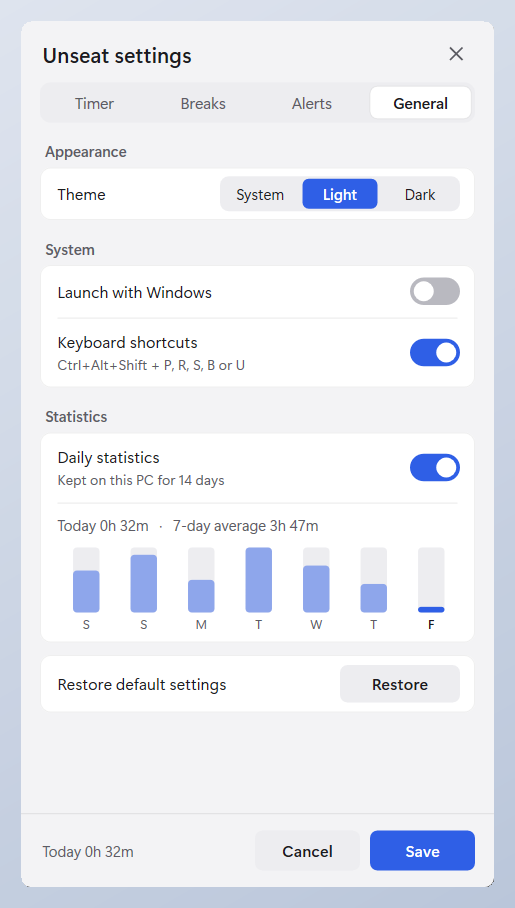
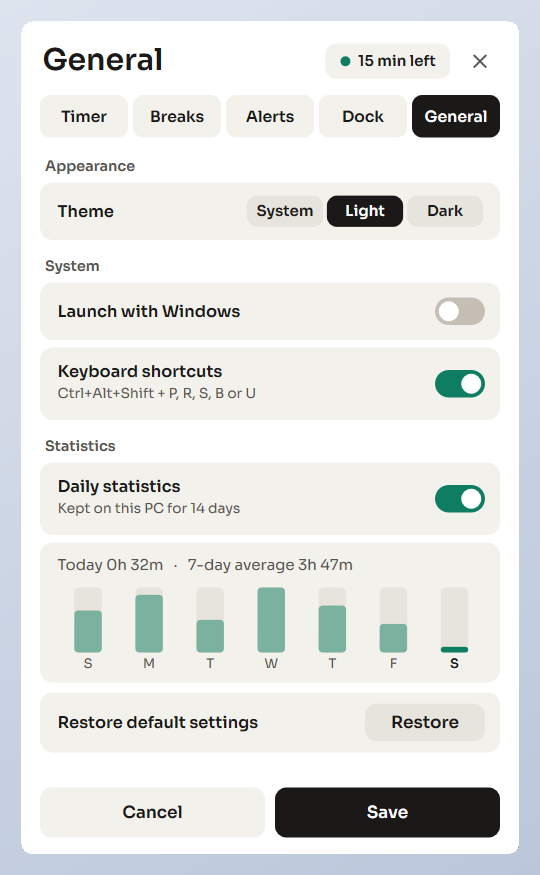
Refresh screenshots and docs for the Signal redesign and docking
README covers the pill-as-progress overlay, alert card, tray panel and
edge docking with new screenshots (plus a before/after comparison).
ARCHITECTURE lists the dock, docking, tray_panel and alert_card modules;
NOTICE credits the embedded Sora typeface (SIL OFL 1.1). Ctrl+1..5 now
reaches all five settings tabs.

diff --git a/src/win/settings_dlg.rs b/src/win/settings_dlg.rs
@@ -1473,8 +1473,8 @@ unsafe fn on_key(hwnd: HWND, dlg: *mut Dialog, vk: VIRTUAL_KEY) {
             }
             return;
         }
-        // Ctrl+1..4 jumps to a tab.
-        _ if ctrl && (0x31..=0x34).contains(&vk.0) => {
+        // Ctrl+1..5 jumps to a tab.
+        _ if ctrl && (0x31..=0x35).contains(&vk.0) => {
             select_tab(d, Tab::ALL[usize::from(vk.0 - 0x31)]);
         }
         _ => return,

diff --git a/README.md b/README.md
@@ -14,12 +14,17 @@
 </p>
 
 <p align="center">
-  <img src="assets/screenshots/overlay-states.png" alt="Unseat overlay: counting, hover controls, overdue, break and paused, in dark and light themes" width="820">
+  <img src="assets/screenshots/overlay-states.png" alt="Unseat overlay: counting, hover controls, overdue, break and paused, in dark and light themes. The pill fills as you sit and its colour shows the state." width="820">
 </p>
 
 <p align="center">
-  <img src="assets/screenshots/settings.png" alt="Unseat alert settings with sound, volume, reminders and snooze" width="320">
-  <img src="assets/screenshots/settings-light.png" alt="Unseat general settings in the light theme with daily statistics" width="320">
+  <img src="assets/screenshots/settings.png" alt="Unseat alert settings: sound, volume, alert length and reminders" width="300">
+  <img src="assets/screenshots/settings-light.png" alt="Unseat general settings in the light theme with the weekly statistics chart" width="300">
+</p>
+
+<p align="center">
+  <img src="assets/screenshots/tray-panel.png" alt="Tray panel with the countdown, progress, Pause, Take a break, Snooze and Reset" width="300">
+  <img src="assets/screenshots/alert-card.png" alt="Alert card beside the overlay: Time to stand up, with Take a break and Snooze" width="300">
 </p>
 
 ## Sitting timer for Windows
@@ -32,7 +37,10 @@ Unseat is a local desktop **timer** and break reminder. It stays on top of your 
 - Manual pause, inactivity pause (*away*) and breaks each look different on the overlay
 - Reverse countdown or ascending stopwatch, without resetting the session
 - Timer, pause and break state survive restarts; only Reset starts over
-- One alert at the limit, optional repeats while overdue, and a Windows notification when time is up
+- The overlay pill is the progress bar: it fills as you sit and its colour shows the state (sitting, near the limit, overdue, break, away or paused)
+- One alert at the limit, optional repeats while overdue; an alert card beside the overlay (Take a break / Snooze), or a Windows notification while the overlay is hidden
+- **Edge docking** (optional): attach the overlay to any screen edge; it slides out to a slim progress tab, peeks when you point at it, slides in on click and reveals itself when time is up
+- A tray panel with the countdown and one-click Pause, Take a break, Snooze and Reset
 - Five bundled sounds with a volume slider and Test button; every sound plays at the same loudness
 - Snooze from the overlay (click the overdue time), tray, or `Ctrl+Alt+Shift+S`
 - XS–XL overlay sizes, optional always-on-top, drag anywhere (snaps to screen edges), position remembered
@@ -64,7 +72,15 @@ Global shortcuts (Settings → General → Keyboard shortcuts, on by default). S
 | `Ctrl+Alt+Shift+B` | Start / end a break |
 | `Ctrl+Alt+Shift+U` | Show / hide the overlay |
 
-In settings: `Tab` / `Shift+Tab` move focus, arrow keys change values and tabs, `Space` toggles, `Ctrl+Tab` or `Ctrl+1…4` switch tabs, `Enter` saves and `Esc` cancels.
+In settings: `Tab` / `Shift+Tab` move focus, arrow keys change values and tabs, `Space` toggles, `Ctrl+Tab` or `Ctrl+1…5` switch tabs, `Enter` saves and `Esc` cancels.
+
+## Edge docking
+
+Settings → Dock → **Dock to a screen edge**, or with it on, drag the overlay against any edge of any monitor. Docked, it waits **Hide after** seconds (3 by default) once the pointer leaves, then slides out to an 8 px tab whose fill shows progress. Point at the tab to see the minutes left; click it or press `Ctrl+Alt+Shift+U` to slide it in. When time is up it slides in on its own for **Stay revealed** seconds (choose time up only, all alerts, or never). The pin on the hovered overlay (or turning off **Slide out when not in use**) keeps it open. It stays clear of the taskbar, stays hidden while a fullscreen app has the monitor, remembers its edge and position, and follows monitor and scaling changes. The timer never pauses while it is hidden.
+
+<p align="center">
+  <img src="assets/screenshots/dock-states.png" alt="Docked overlay expanded, slid out to a tab, and peeking with 13 min, in dark and light" width="700">
+</p>
 
 ## Upgrading from 0.1.x
 
@@ -74,7 +90,7 @@ Settings are kept. Earlier versions paused the timer during inactivity by defaul
 
 Settings → Alerts picks **Chime**, **Bell**, **Pulse**, **Glass**, or **Soft**, a volume (75% by default, a little louder than before), and **Test**. **Once** plays the clip; **2s / 4s / 8s** loops it for that long. Repeat reminders fire on the interval you set and never stack: after sleep only one plays. A new sound always stops the previous one.
 
-When the sitting limit is reached, snooze **5 / 10 / 15 / 30** minutes or a custom duration. The last choice is saved. Click the overdue time on the overlay, or use the tray **Snooze** menu.
+When the sitting limit is reached, snooze **5 / 10 / 15 / 30** minutes or a custom duration (Settings → Breaks). The last choice is saved. Click the overdue time on the overlay, the alert card's **Snooze**, or the tray panel.
 
 ## Build from source
 
@@ -115,6 +131,6 @@ Unseat never phones home. It does not upload usage, crash reports, or identity. 
 
 ## License
 
-[Apache License 2.0](LICENSE). Contributions are accepted under the same terms. Alert sounds in `assets/sounds/` are [CC0](assets/sounds/LICENSE.txt). See [NOTICE](NOTICE) for third-party crate notes.
+[Apache License 2.0](LICENSE). Contributions are accepted under the same terms. Alert sounds in `assets/sounds/` are [CC0](assets/sounds/LICENSE.txt). The embedded [Sora](https://github.com/sora-xor/sora-font) typeface is under the [SIL Open Font License 1.1](assets/fonts/OFL.txt). See [NOTICE](NOTICE) for third-party notes.
 
 **Unseat** is a name of this project. Forks may use the code; they should not present themselves as the official Unseat app.

diff --git a/ARCHITECTURE.md b/ARCHITECTURE.md
@@ -12,7 +12,8 @@ No Win32. Everything that decides behavior lives here and is unit-tested:
 | `settings` | `Settings` JSON under `%APPDATA%\Unseat\settings.json`: defaults, clamping, schema migration, reset to defaults, 14-day history |
 | `alerts` / `audio` | Which alert events play a sound or show a notification; PCM16 volume scaling |
 | `view` | Overlay layout and hit targets at 96 DPI, face digits, tag text, tray status line, edge snapping |
-| `theme` | Light and dark palettes, contrast-checked in tests |
+| `theme` | Signal palettes (light and dark): per-state overlay surface, band, digit and tag colours; contrast-checked in tests |
+| `dock` | Edge docking: geometry for every edge (`dock_frame`) and a time-driven `DockController` (hide delay, peek, click, alert reveal, pin, fullscreen) |
 | `stats`, `date` | Weekly chart data and civil-date arithmetic |
 
 The host must not invent timer rules. If a behavior cannot be asked of the engine, it does not exist.
@@ -42,9 +43,12 @@ The engine reports `LimitReached`, `Progressive` and `BreakOver` regardless of s
 | --- | --- |
 | `app` | Owns the engine; feeds time, last-input age and lock/sleep state; persists every 60 s, on every command and at shutdown |
 | `widget` | Layered Direct2D overlay (no-activate, optionally topmost). Receives the broadcasts the message-only window cannot: theme change, `TaskbarCreated`, display/DPI changes, power, end-session |
-| `paint`, `gfx` | Overlay painter with a cached back buffer and render target; shared Direct2D helpers and text-format cache |
+| `paint`, `gfx` | Overlay painter (pill as progress bar, docked tab and peek) with a cached back buffer; shared Direct2D helpers, text-format cache, the embedded Sora font loaded from memory, tabular digits measured to fit |
+| `docking` | Applies `DockController` to the overlay window: placement, slide frames (~16 ms timer only while sliding), drag-to-dock, fullscreen detection |
+| `tray_panel` | Custom tray panel that replaces the native menu; keyboard operable |
+| `alert_card` | Non-activating card beside the overlay when time is up or a break ends |
 | `settings_dlg` | Tabbed settings. One row table drives layout, painting, hit testing and keyboard focus |
-| `tray`, `flyout` | Tray menu, status tooltip (updated only when its text changes), notifications, hover card |
+| `tray`, `flyout` | Tray icon, status tooltip (updated only when its text changes), notifications, hover card |
 | `sound` | Embedded WAVs via `PlaySoundW(SND_MEMORY)` from a volume-scaled copy kept alive while playing |
 | `hotkeys` | Optional `Ctrl+Alt+Shift` shortcuts |
 | `autostart` | Opt-in `HKCU\...\Run` value; reads Task Manager's StartupApproved state; repairs a stale path |
